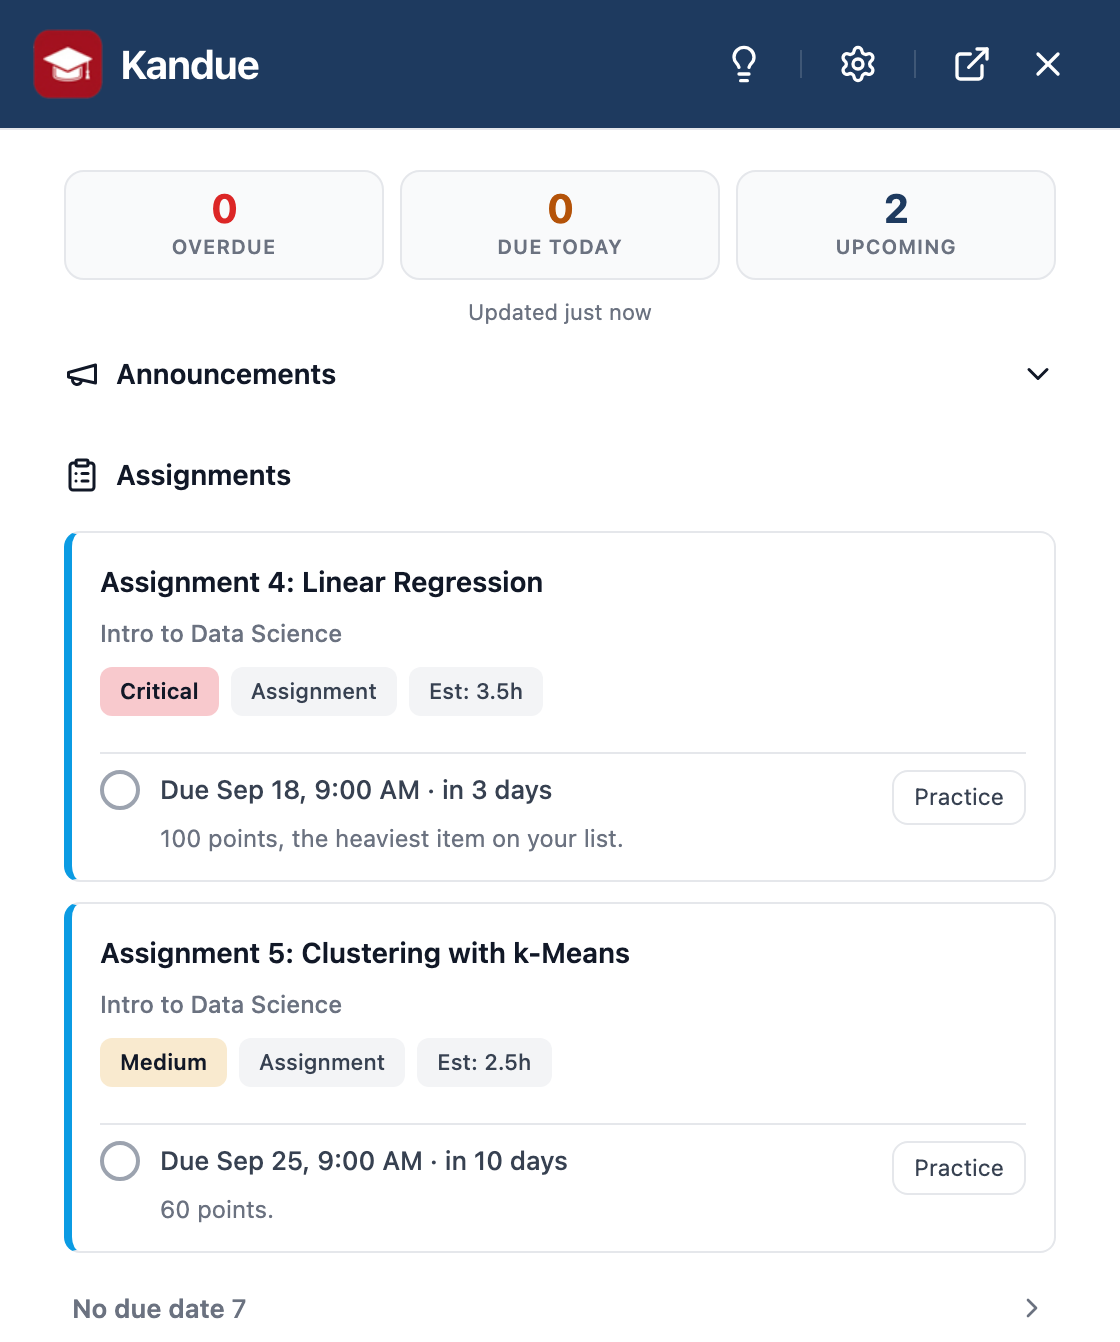
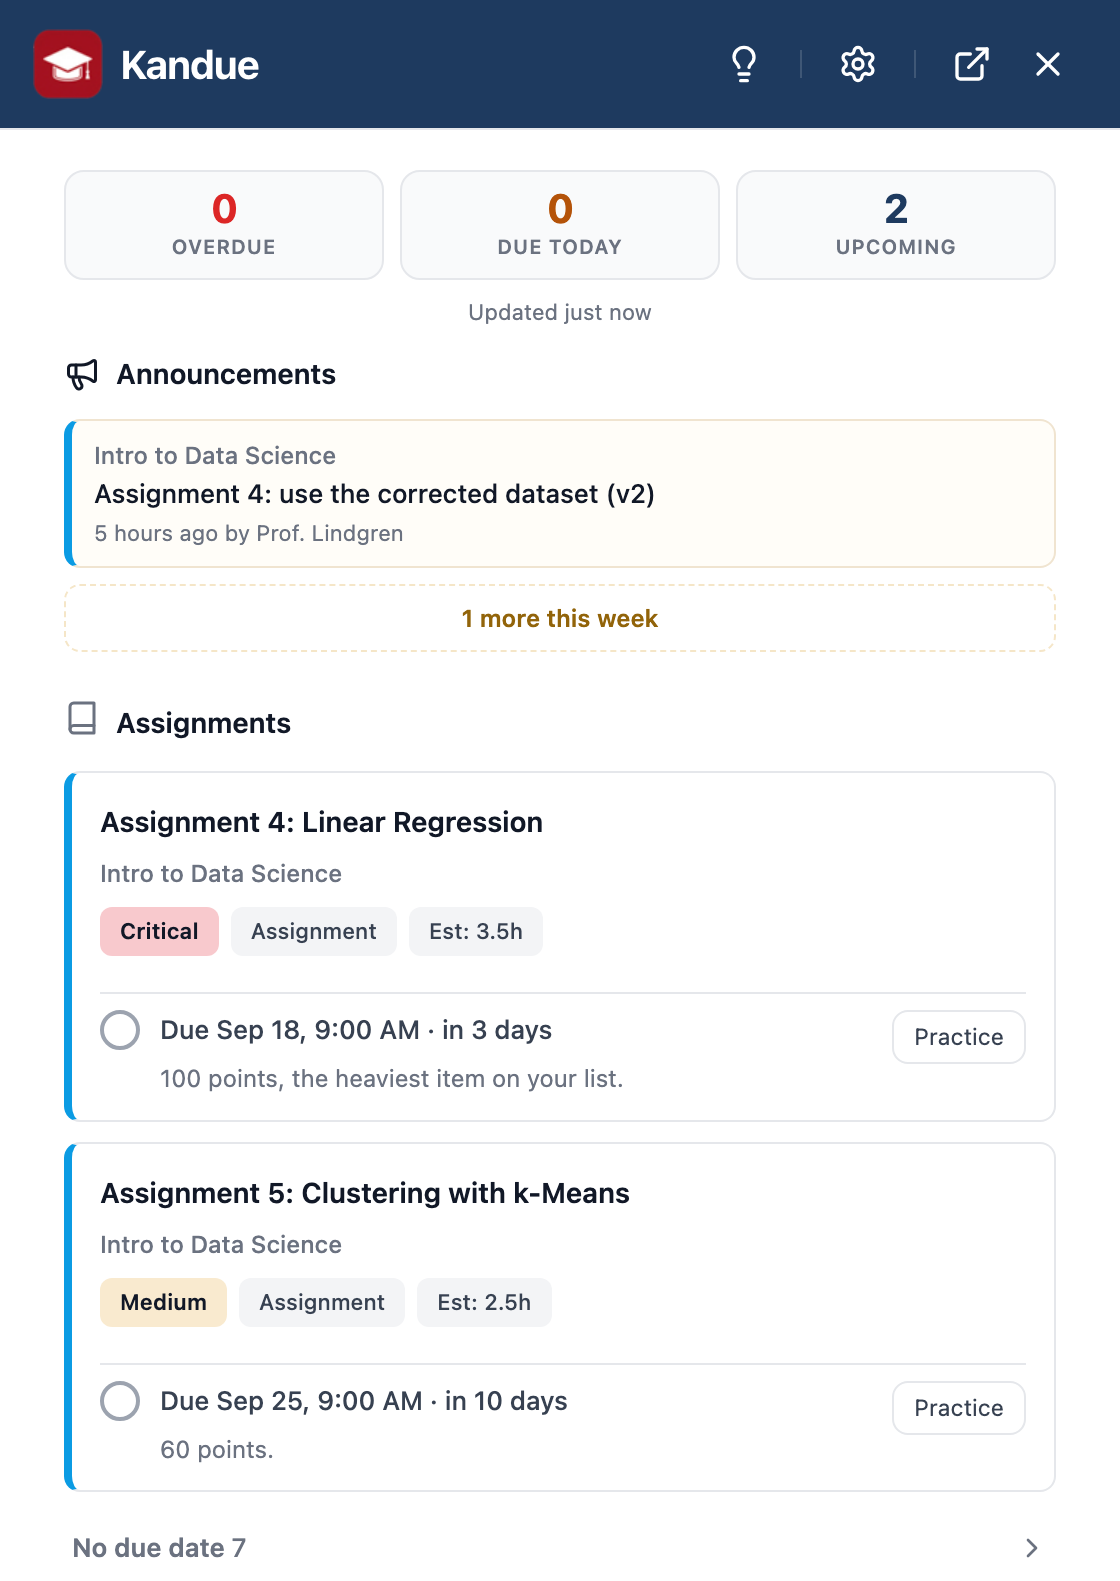
Announcements are the week's, and the shot finally has one in it
The capture showed a bare Announcements header, because the harness drew the
section itself and never filled it; the caption beside it said "announcements
you haven't read", which is a state the panel does not track. It reads the last
seven days. Both now say the same thing, and the shot shows an announcement
about Assignment 4 sitting above Assignment 4, carrying that course's colour —
which is the reason the stripe is there.

The students captures name an instructor for the first time, so they carry the
same note the grading ones have carried: none of these people exist.

ss1 is 1581 tall with the section filled. The quiz pair shuffles its options on
every capture, so those two differ with nothing behind it. New ?v= on all four.

Claude-Session: https://claude.ai/code/session_01EmEkzrBsw6XcxqcCDmU3yG

diff --git a/docs/index.html b/docs/index.html
@@ -377,20 +377,20 @@
 
             <section class="section">
                 <h3>See it</h3>
-                <p class="sub">A panel that sits beside the page you're on, or over it if you'd rather. Read your deadlines, see what to start, and quiz yourself without leaving Canvas.</p>
+                <p class="sub">A panel that sits beside the page you're on, or over it if you'd rather. Read your deadlines, see what to start, and quiz yourself without leaving Canvas. Fictional courses, invented instructors: nothing in these captures comes from a real Canvas course.</p>
 
                 <div class="shot-feature">
                     <!-- ?v= is the edge cache key (see the brand mark): these files were
                          replaced in place, and Cloudflare holds them for four hours. -->
-                    <div class="shot-media"><img src="ss1.png?v=1" width="1120" height="1342" alt="The Kandue panel showing overdue, due-today and upcoming counts, an announcements row, and assignments listed with their course, urgency chip and hour estimate" loading="lazy" decoding="async"></div>
+                    <div class="shot-media"><img src="ss1.png?v=2" width="1120" height="1581" alt="The Kandue panel showing overdue, due-today and upcoming counts, then an announcement reading &quot;Assignment 4: use the corrected dataset (v2)&quot; above the assignment it is about, and assignments listed with their course, urgency chip and hour estimate" loading="lazy" decoding="async"></div>
                     <div class="shot-copy">
                         <h4>Everything due, in one place</h4>
-                        <p>Overdue, due today and coming up, counted across every course, with announcements you haven't read sitting above the list.</p>
+                        <p>Overdue, due today and coming up, counted across every course, with this week's announcements above the list, each one carrying the colour of the course it is about.</p>
                     </div>
                 </div>
 
                 <div class="shot-feature">
-                    <div class="shot-media"><img src="ss-priorities.png?v=1" width="560" height="687" alt="The Kandue assignment queue with a lab, an exam and a reading ranked Critical, High and Medium, each with an hour estimate and a one-line reason" loading="lazy" decoding="async"></div>
+                    <div class="shot-media"><img src="ss-priorities.png?v=2" width="560" height="689" alt="The Kandue assignment queue with a lab, an exam and a reading ranked Critical, High and Medium, each with an hour estimate and a one-line reason" loading="lazy" decoding="async"></div>
                     <div class="shot-copy">
                         <h4>Know what to start</h4>
                         <p>Your week ranked by what actually matters first, each task with an hour estimate and one line on why it's there. Tell it how long something really took and the estimates adjust to you.</p>
@@ -399,12 +399,12 @@
 
                 <div class="shot-grid">
                     <div class="shot">
-                        <img src="ss-quiz.png?v=1" width="560" height="700" alt="A Kandue practice quiz asking how to get an honest estimate of how a regression model will do on new data, with four answer choices to pick from" loading="lazy" decoding="async">
+                        <img src="ss-quiz.png?v=2" width="560" height="700" alt="A Kandue practice quiz asking how to get an honest estimate of how a regression model will do on new data, with four answer choices to pick from" loading="lazy" decoding="async">
                         <h4>Quiz yourself on it</h4>
                         <p>Commit to an answer first, then see the explanation. Works on a course, an assignment, or the page you're reading.</p>
                     </div>
                     <div class="shot">
-                        <img src="ss-quiz-reveal.png?v=1" width="560" height="700" alt="The same quiz after answering: the chosen option marked wrong in red, the correct option marked in green, and an explanation of why, credited to 'Assignment 4: Linear Regression'" loading="lazy" decoding="async">
+                        <img src="ss-quiz-reveal.png?v=2" width="560" height="700" alt="The same quiz after answering: the chosen option marked wrong in red, the correct option marked in green, and an explanation of why, credited to 'Assignment 4: Linear Regression'" loading="lazy" decoding="async">
                         <h4>Built from your course</h4>
                         <p>Every question traces back to your own assignment, syllabus, or page, and the explanation says which.</p>
                     </div>
